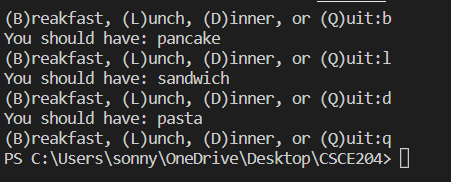
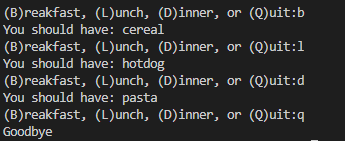
Add files via upload

diff --git a/CSCE204/exercises/sep13/while_guess.py b/CSCE204/exercises/sep13/while_guess.py
@@ -1,0 +1,18 @@
+import random
+from turtle import numinput
+goal = random.randint(1,100)
+print(f"The goal is {goal}")
+print("Welcome to out guessing game!")
+while True:
+    guess = int(input("Enter a number between 1 and 100: "))
+    if guess > goal:
+        print("your guess is too high")
+    elif guess < goal:
+        print("Your guess is too low")
+    else:
+        print("Yayy")
+        break
+    again = input("Do you want to guess again (Y)es or (N)o: ").lower().strip()
+    if again == "n":
+        break
+print("Goodbye")

diff --git a/CSCE204/exercises/sep13/while3.py b/CSCE204/exercises/sep13/while3.py
@@ -1,0 +1,13 @@
+print("Color Party!")
+while True:
+    guess = input("Guess my favorite color: ").lower().strip()
+    if guess == "blue":
+        print("YAY!!!")
+        break #Kicks you out of the loop
+
+    print("Wrong!")
+    again = input("Do you want to guess again (Y)es or (N)o: ").lower().strip()
+    if again == "n":
+        break
+
+print("Goodbye")

diff --git a/CSCE204/exercises/sep13/while1.py b/CSCE204/exercises/sep13/while1.py
@@ -1,0 +1,7 @@
+an = input("Do you want me to say hello (Y)es or (N)o?").lower().strip()
+
+while an == "y":
+    print("Hello")
+    an = input("Do you want to say hello again?(Y)es or (N)o?").lower().strip()
+
+print("Bye for now")

diff --git a/CSCE204/exercises/sep13/while2.py b/CSCE204/exercises/sep13/while2.py
@@ -1,0 +1,7 @@
+print("Color Party!")
+color = input("Guess my favorite color: ").lower().strip()
+while color != "blue":
+    print("Wrong!")
+    color = input("Guess again: ").lower().strip()
+
+print("Yay!\nGoodbye")

diff --git a/CSCE204/assignments/ass08/meal_planning.py b/CSCE204/assignments/ass08/meal_planning.py
@@ -31,3 +31,4 @@ while True:
         print(f"You should have: {food}")
     elif meal == "q":
         break
+print("Goodbye")
